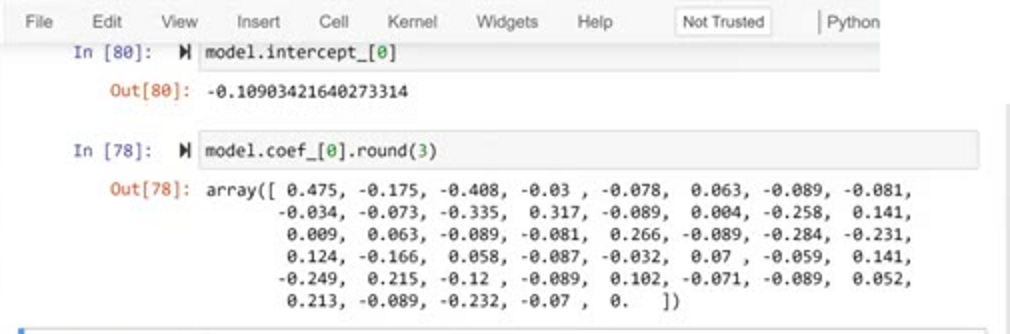
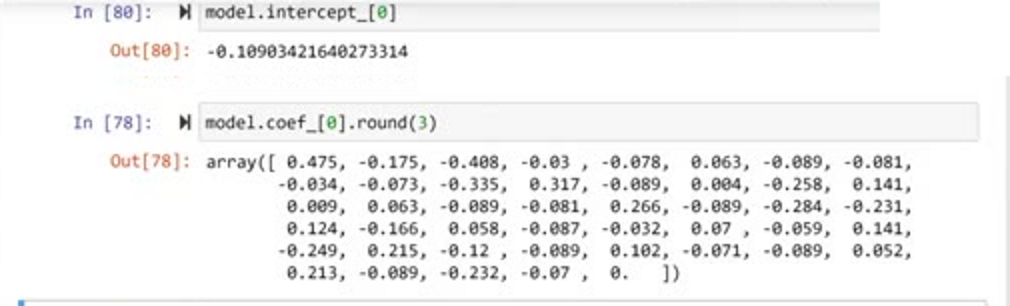
Tighten coefficient screenshot crop

diff --git a/.tmp/ml-classification-rollout-10-14.md b/.tmp/ml-classification-rollout-10-14.md
@@ -23,6 +23,10 @@ both code cells and their exact text.
   `(15,82,505,115)`, 2× Lanczos resize and light unsharp; preserved the exact
   bias and 45-weight array and removed the handwritten annotation/camera tile.
 
+Correction: replaced the composite's intercept crop with `(15,52,440,38)`
+to remove the remaining Jupyter menu bar; the coefficient crop and exact
+45-weight array are unchanged.
+
 - `10-training-log-reg-03-soft-predictions.jpg` →
   `10-training-log-reg-03-soft-predictions-cropped.png` — deterministic crop
   `(15,190,300,100)`, 2× Lanczos resize and light unsharp; preserved the
